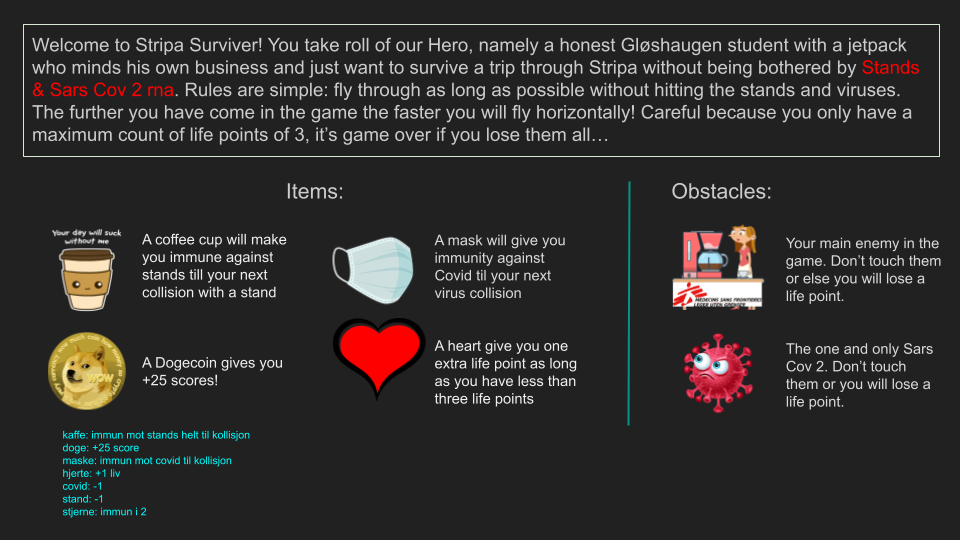
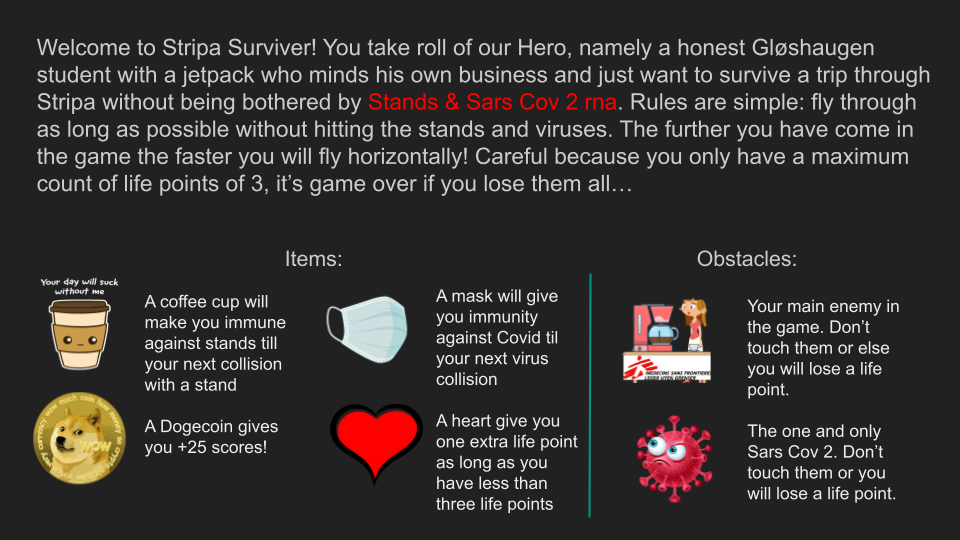
fjernet tutorial med liten skrift

Changed region(s): [[0.0312, 0.4148, 1.0, 0.9778], [0.0312, 0.0593, 0.9688, 0.3852]]

diff --git a/core/src/com/mygdx/game/view/help/HelpView.java b/core/src/com/mygdx/game/view/help/HelpView.java
@@ -26,7 +26,7 @@ public class HelpView extends View<HelpController> {
 
 
     private HelpView(){
-        Image firstSlide = new Image(new TextureRegionDrawable(new TextureRegion(new Texture("tutorialsBiggerText.png"))));
+        Image firstSlide = new Image(new TextureRegionDrawable(new TextureRegion(new Texture("tutorials.png"))));
        // Image secondSlide = new Image(new TextureRegionDrawable(new TextureRegion(new Texture("tutorialsBiggerText.png"))));
        // Image thirdSlide = new Image(new TextureRegionDrawable(new TextureRegion(new Texture("tutorialsBiggerText.png"))));
 
